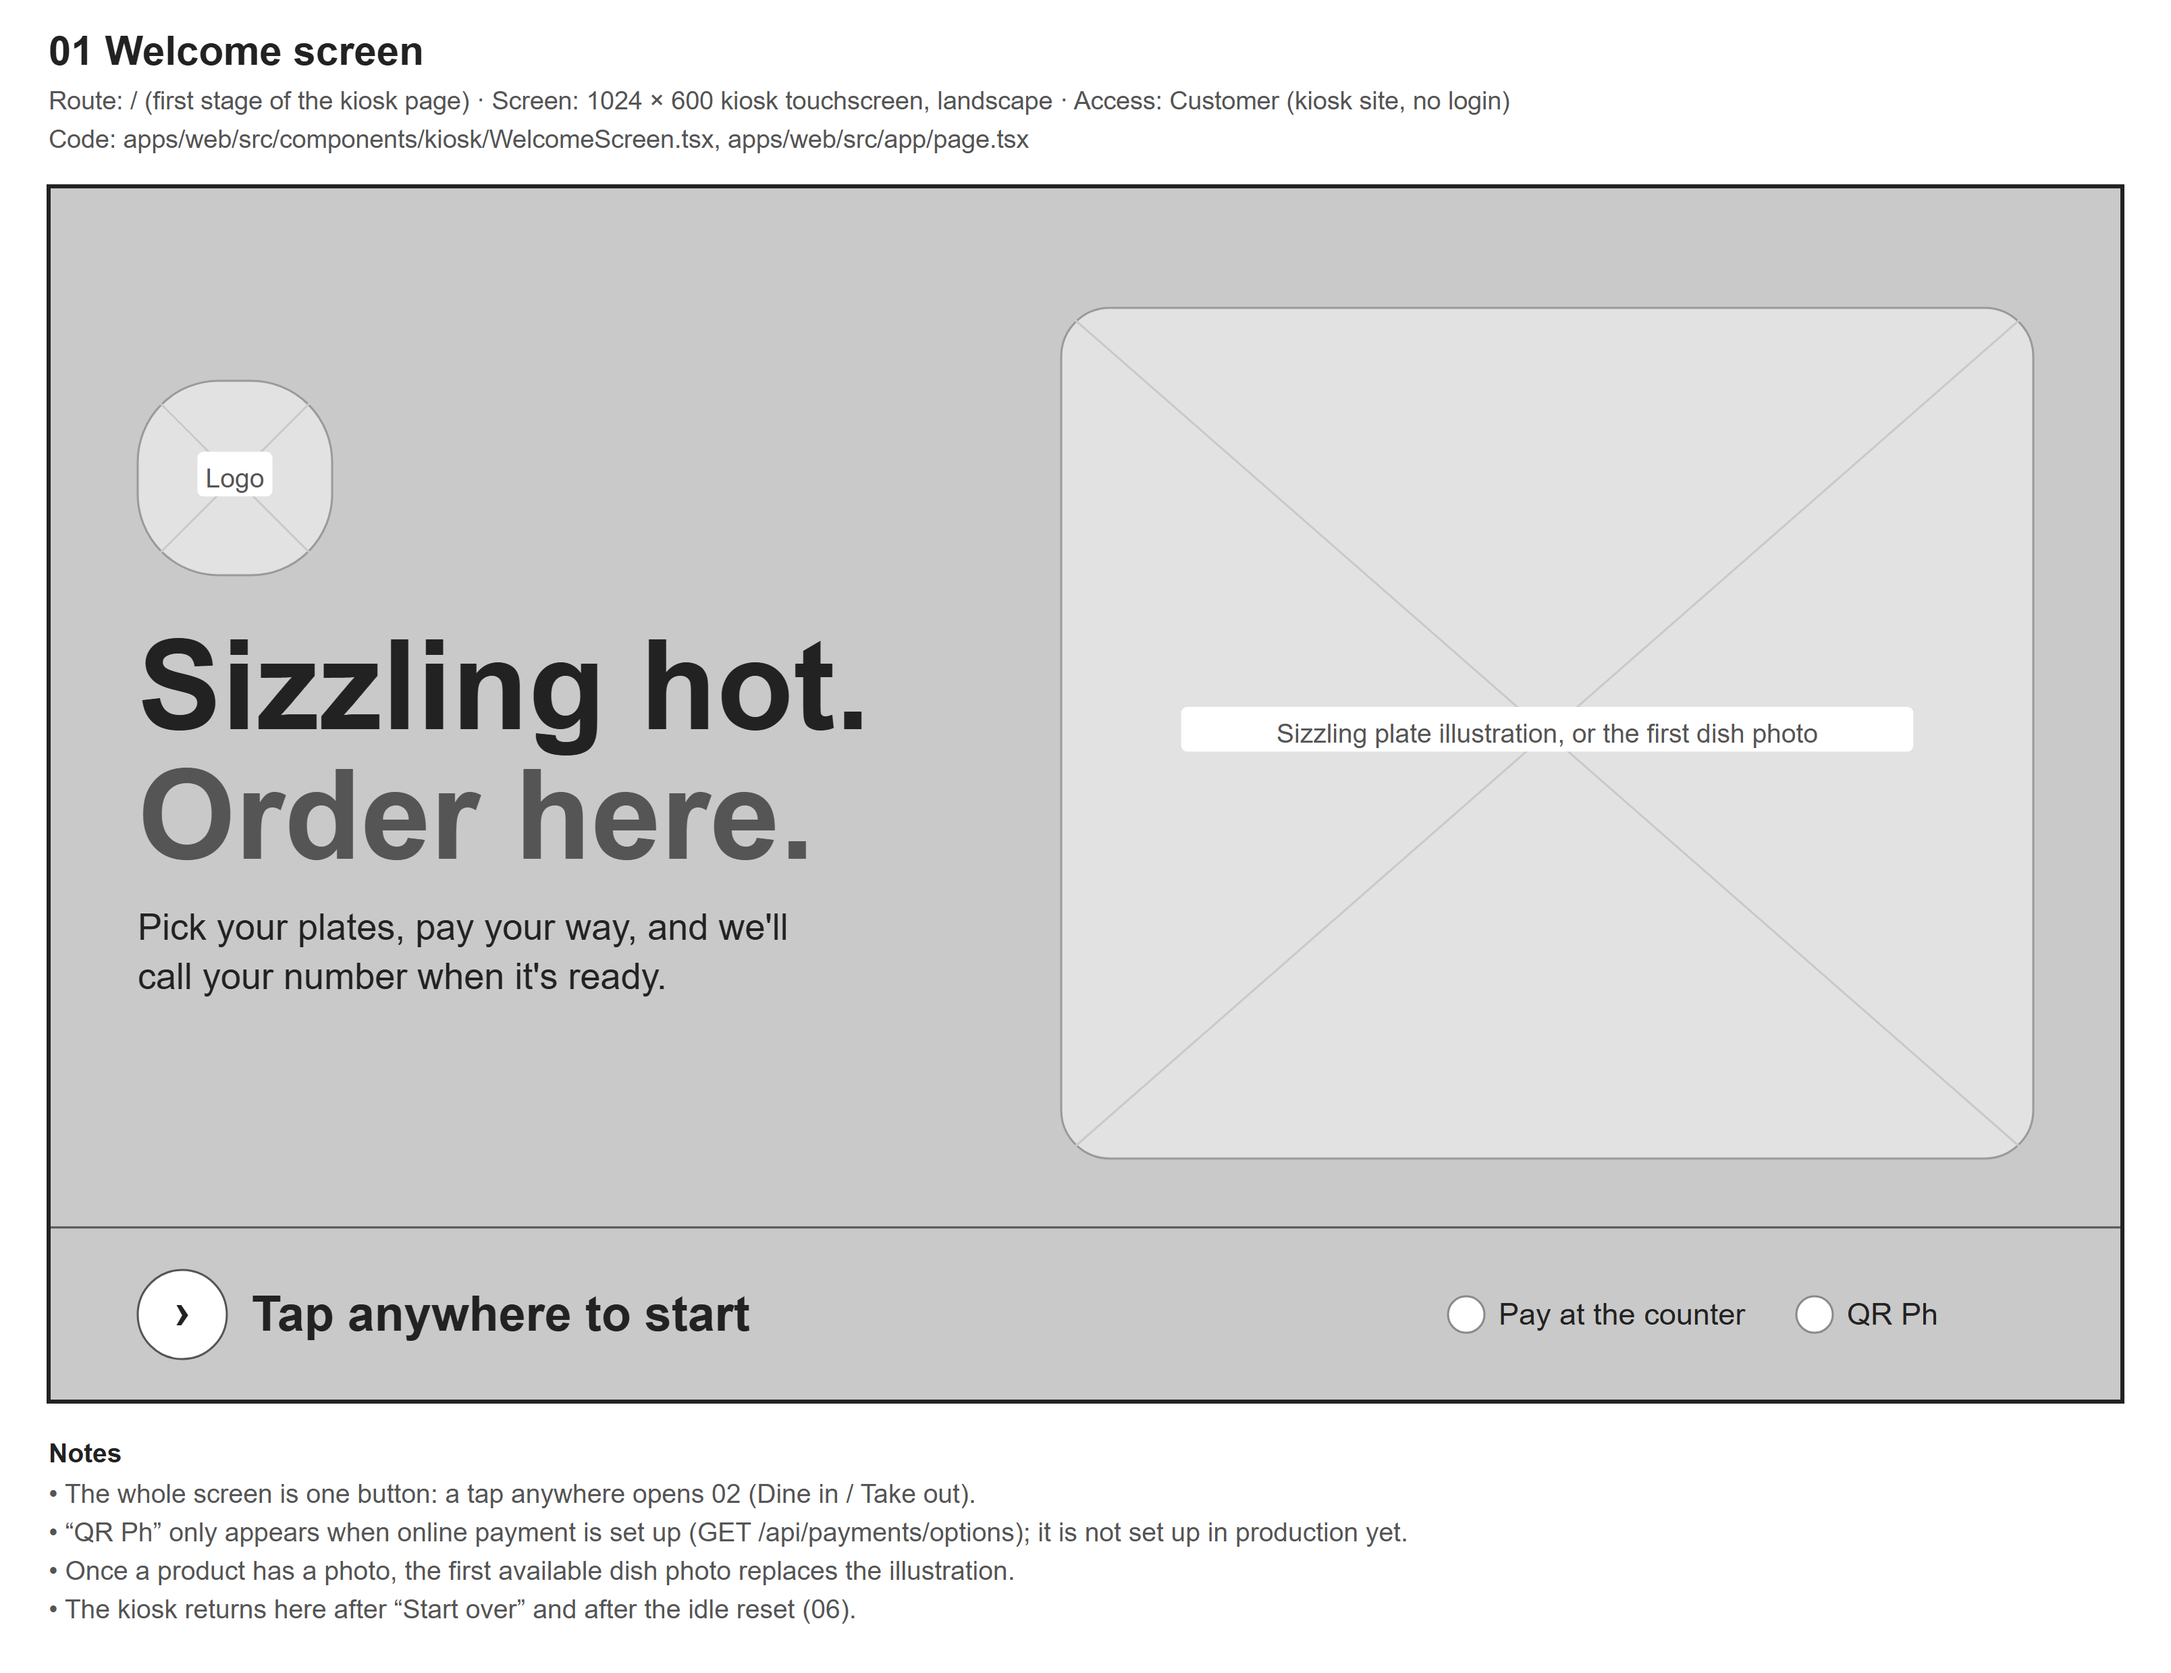
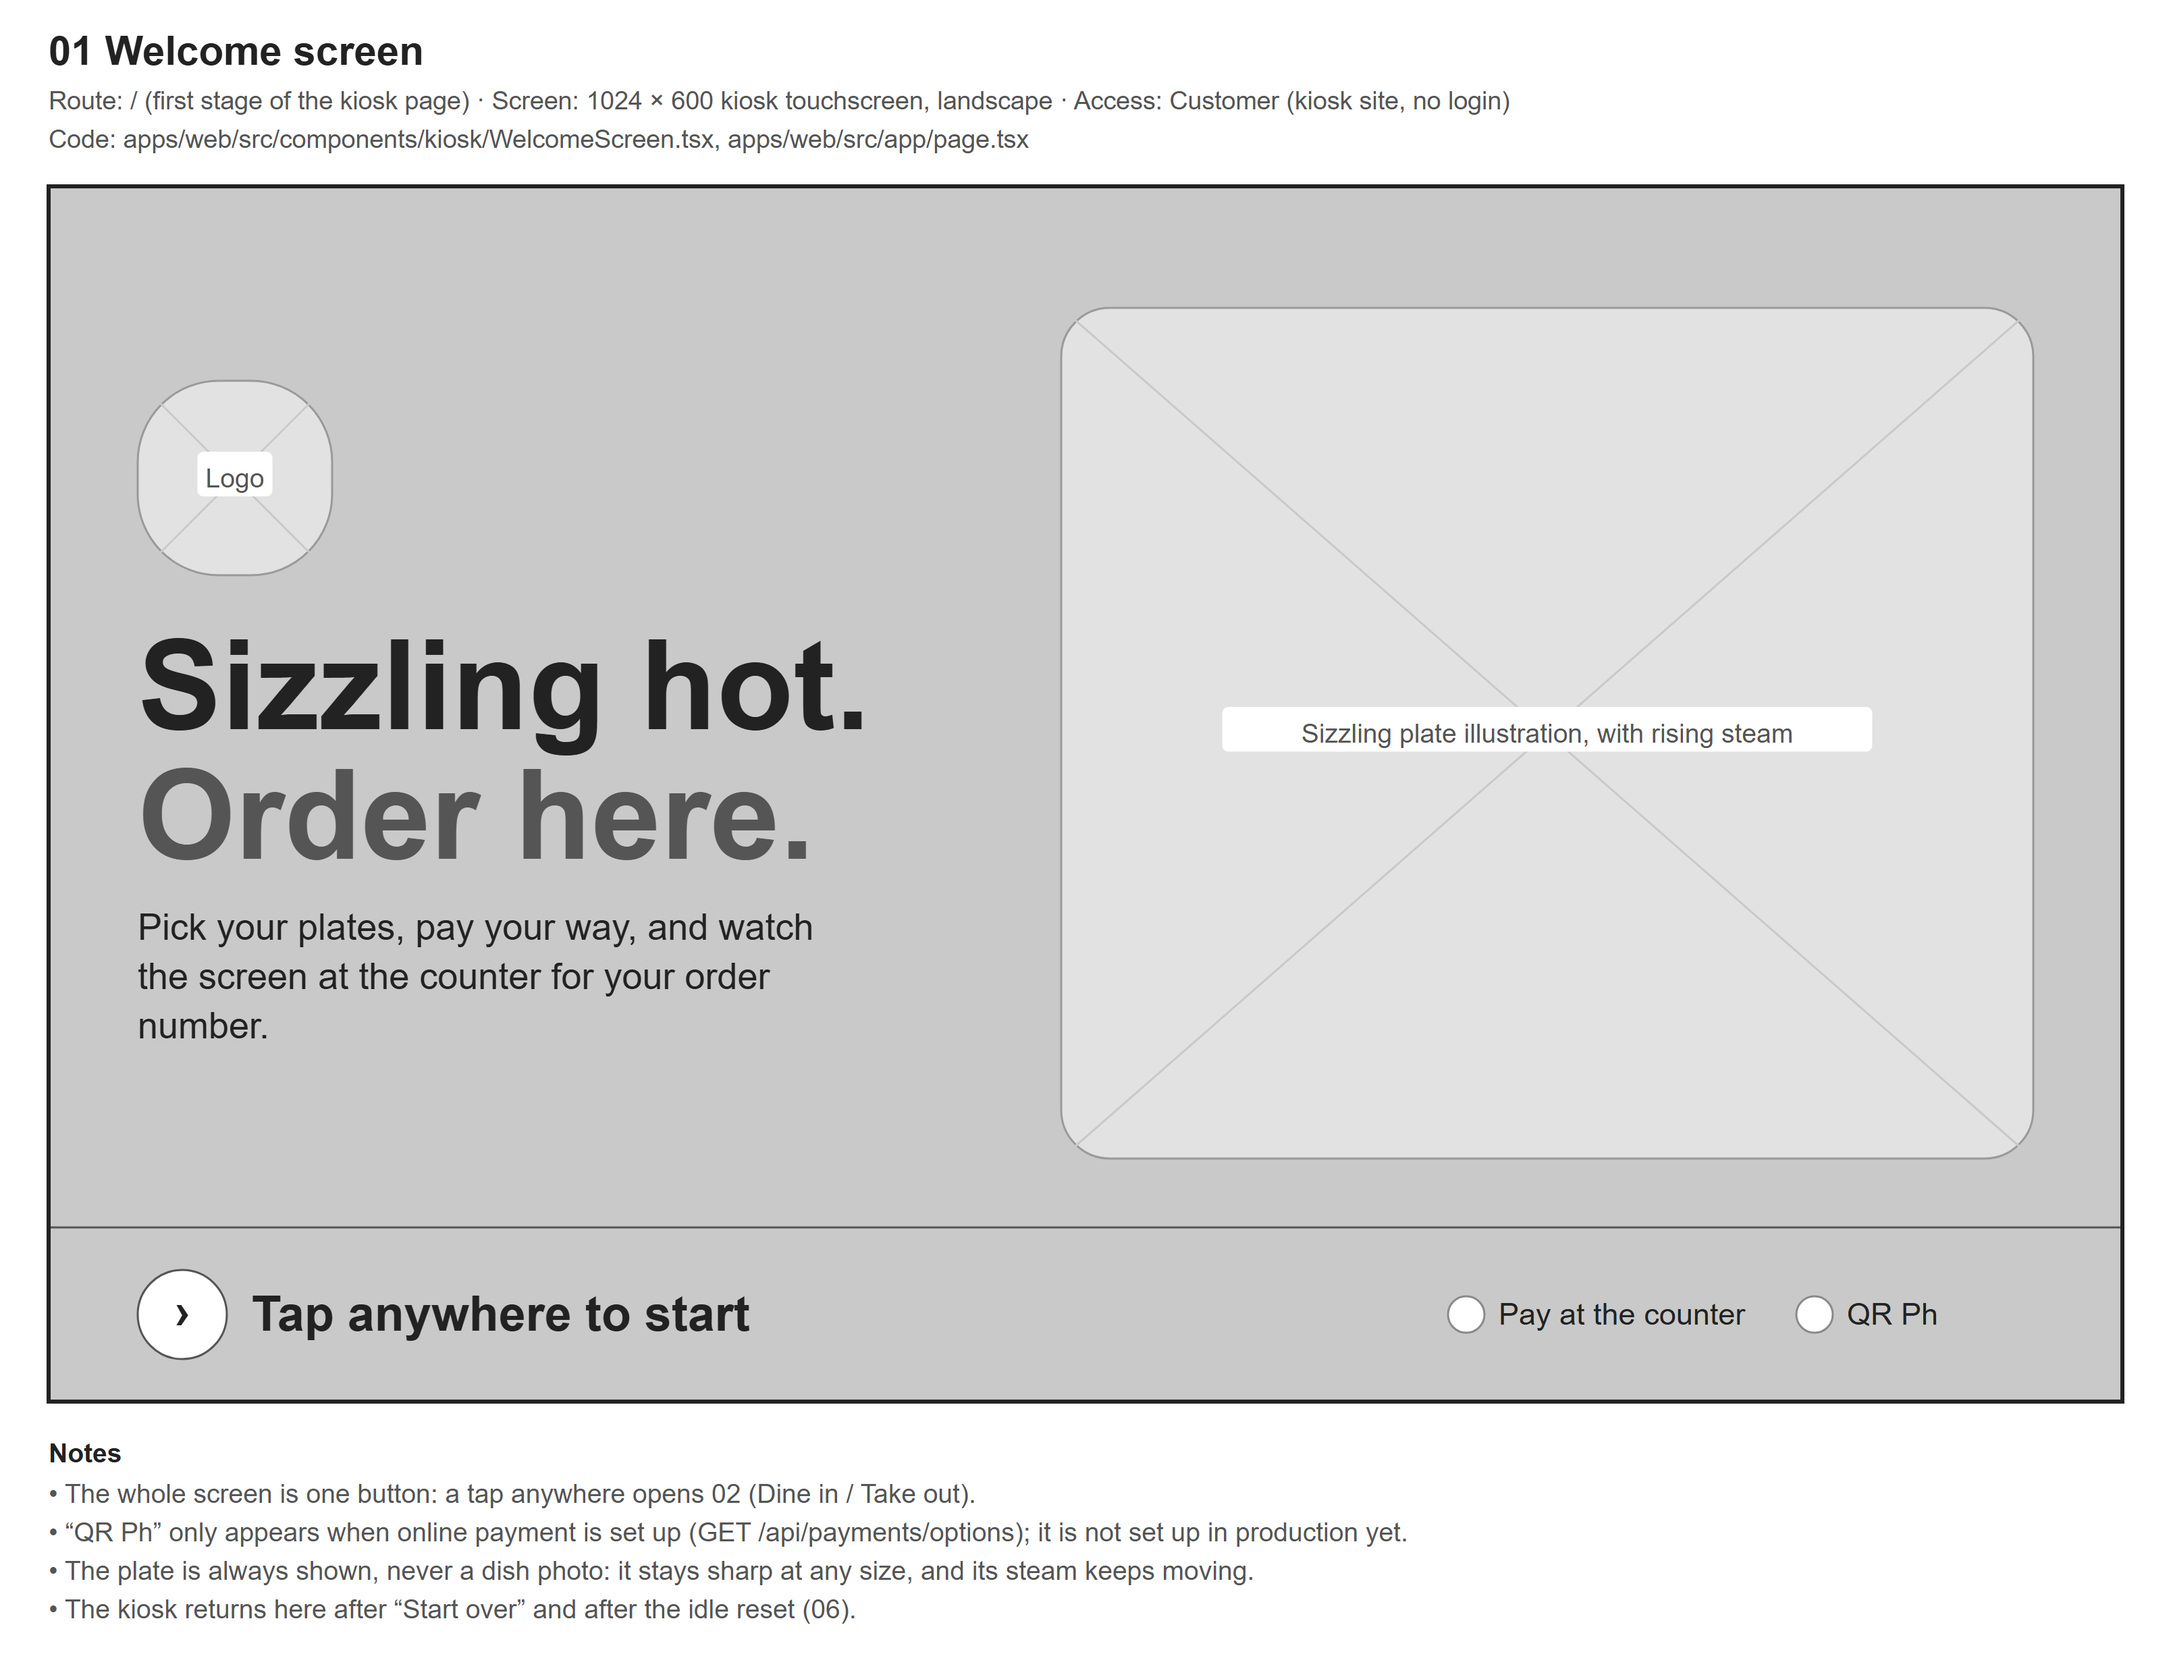
docs: redraw wireframe 01 with the animated plate and the counter-screen wording

diff --git a/docs/diagrams/source/screens_kiosk.py b/docs/diagrams/source/screens_kiosk.py
@@ -140,8 +140,8 @@ def welcome():
     f.img(44, 96, 96, 96, r=40, label="Logo")
     f.text(44, 268, "Sizzling hot.", size=62, bold=True)
     f.text(44, 332, "Order here.", size=62, bold=True, fill=INK2)
-    f.wrap(44, 372, 390, "Pick your plates, pay your way, and we'll call your number when it's ready.", size=18, fill=INK)
-    f.img(500, 60, 480, 420, r=24, label="Sizzling plate illustration, or the first dish photo")
+    f.wrap(44, 372, 390, "Pick your plates, pay your way, and watch the screen at the counter for your order number.", size=18, fill=INK)
+    f.img(500, 60, 480, 420, r=24, label="Sizzling plate illustration, with rising steam")
     f.line(0, 514, W, 514, stroke=INK2)
     f.circle(66, 557, 22, fill=WHITE, stroke=INK2)
     f.text(66, 563, "›", size=22, anchor="middle", bold=True)
@@ -152,7 +152,7 @@ def welcome():
     f.text(888, 562, "QR Ph", size=15)
     f.add_note("The whole screen is one button: a tap anywhere opens 02 (Dine in / Take out).")
     f.add_note("“QR Ph” only appears when online payment is set up (GET /api/payments/options); it is not set up in production yet.")
-    f.add_note("Once a product has a photo, the first available dish photo replaces the illustration.")
+    f.add_note("The plate is always shown, never a dish photo: it stays sharp at any size, and its steam keeps moving.")
     f.add_note("The kiosk returns here after “Start over” and after the idle reset (06).")
     return f
 
